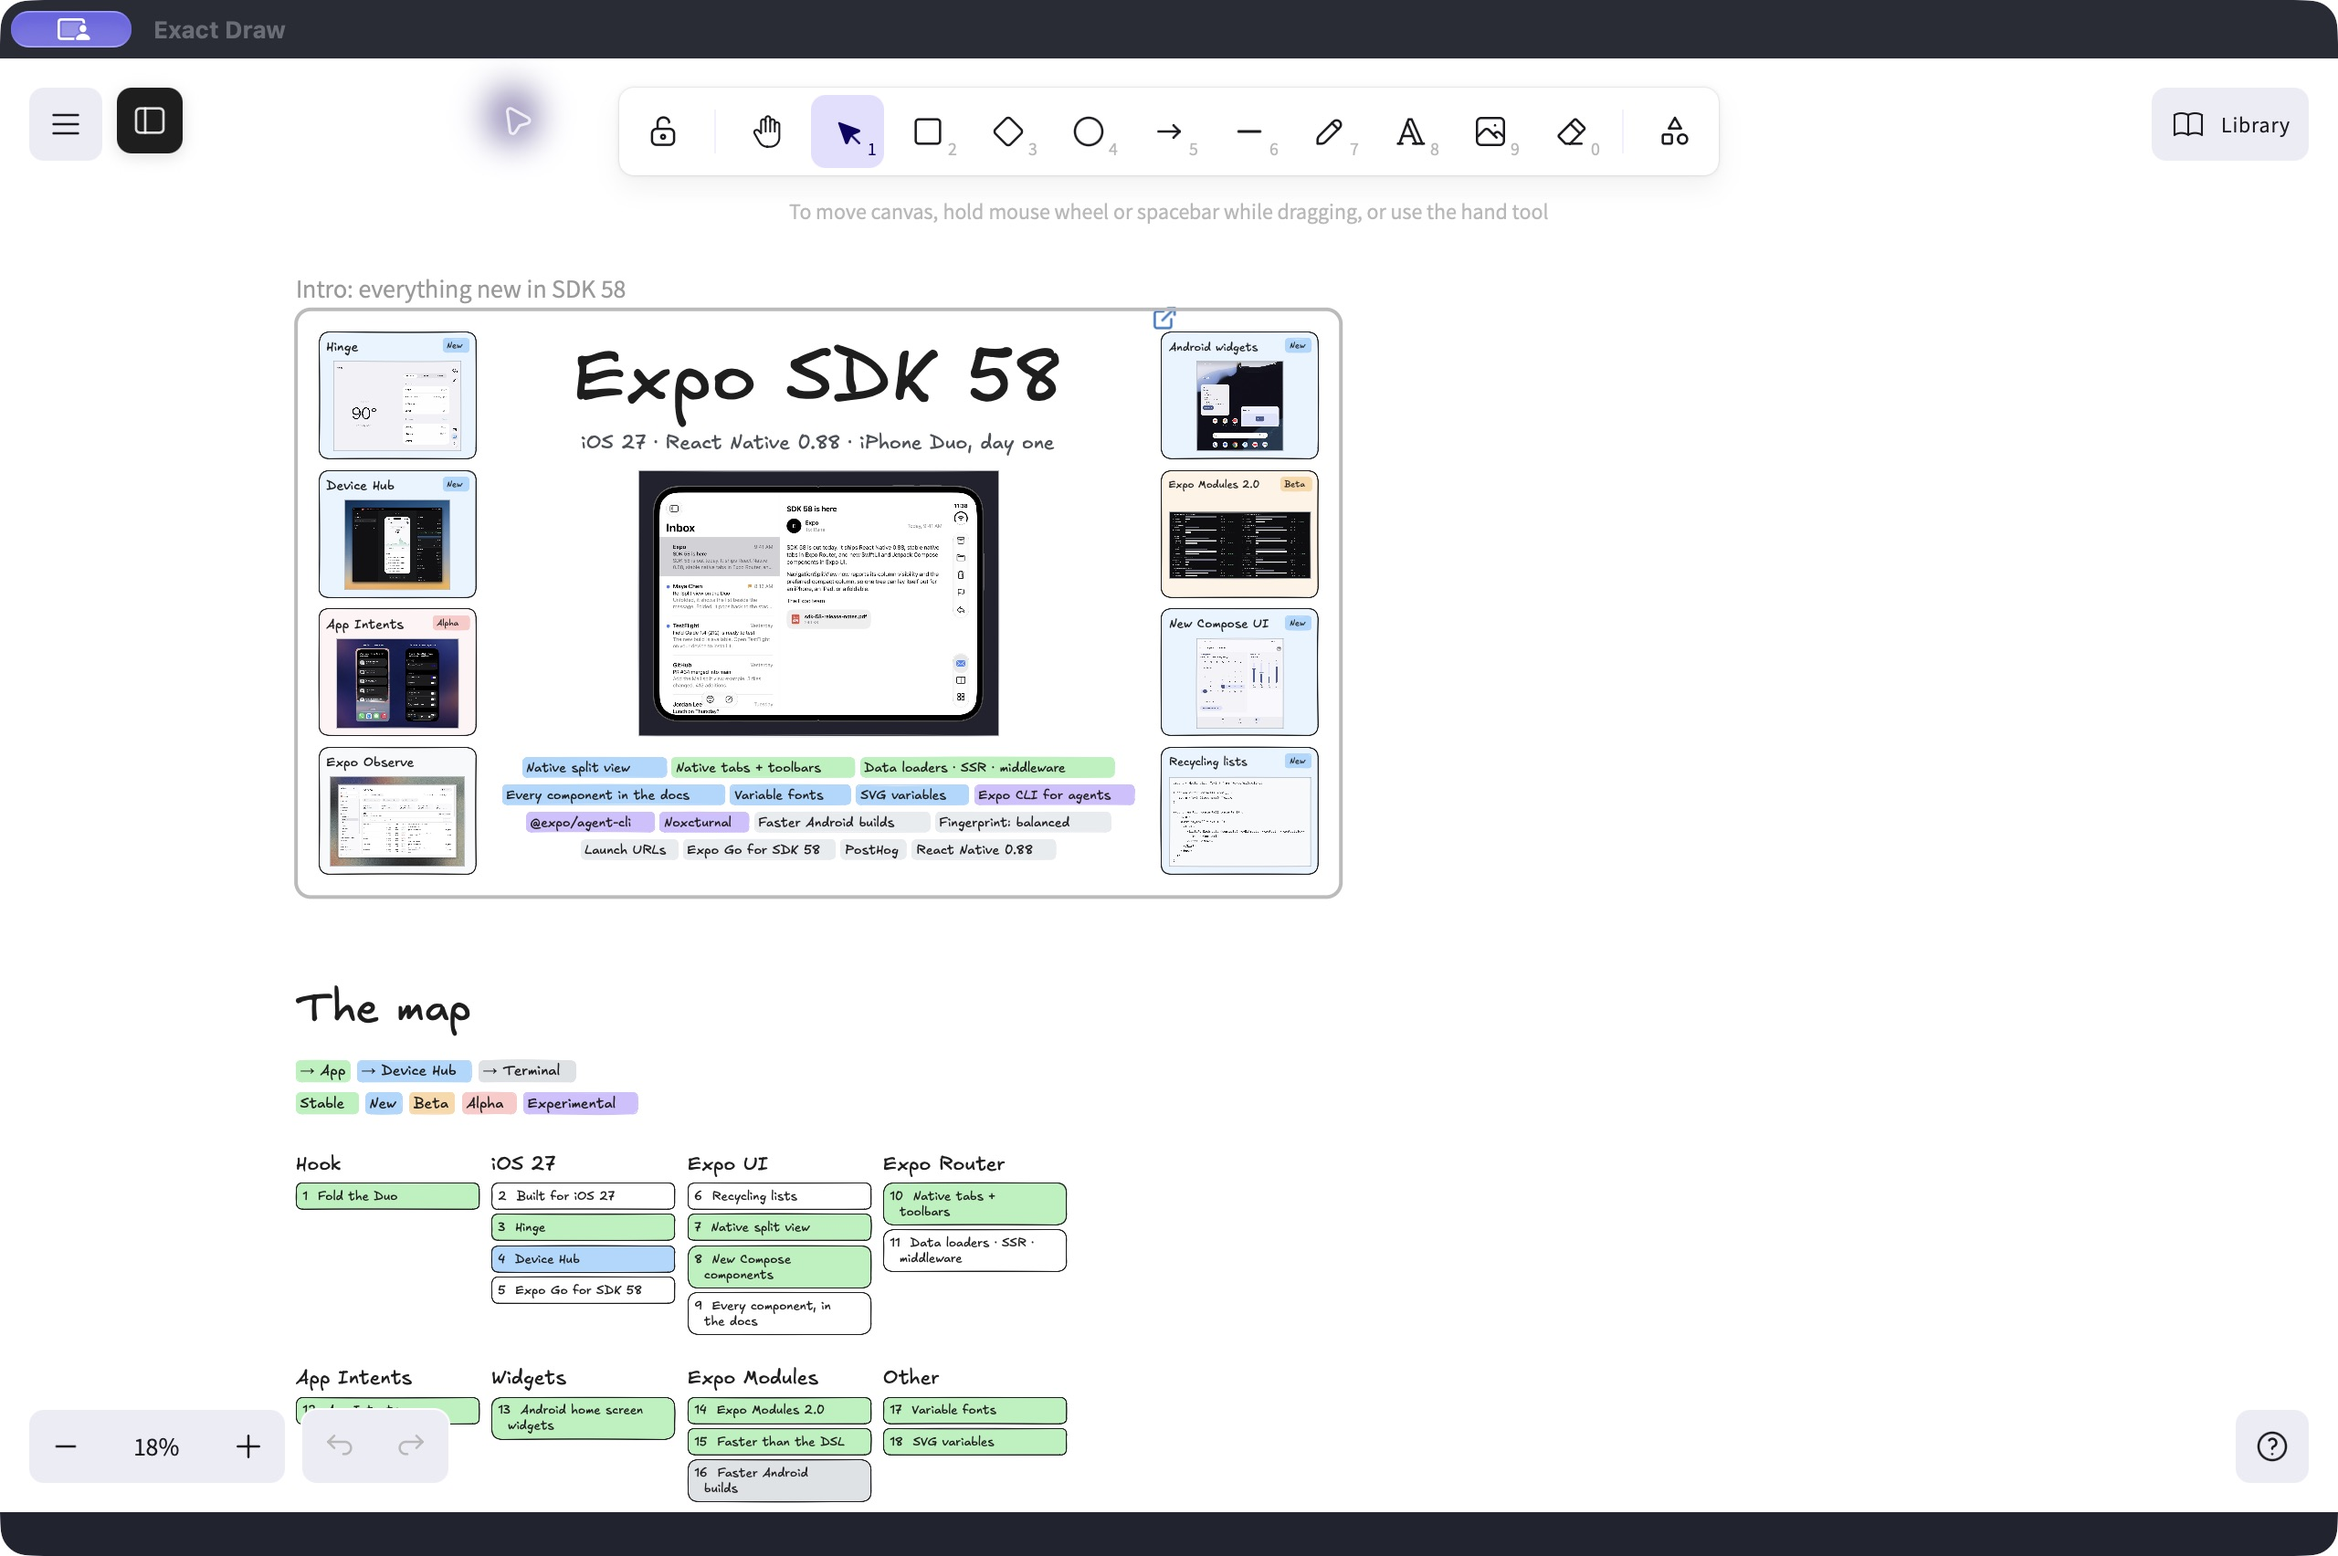
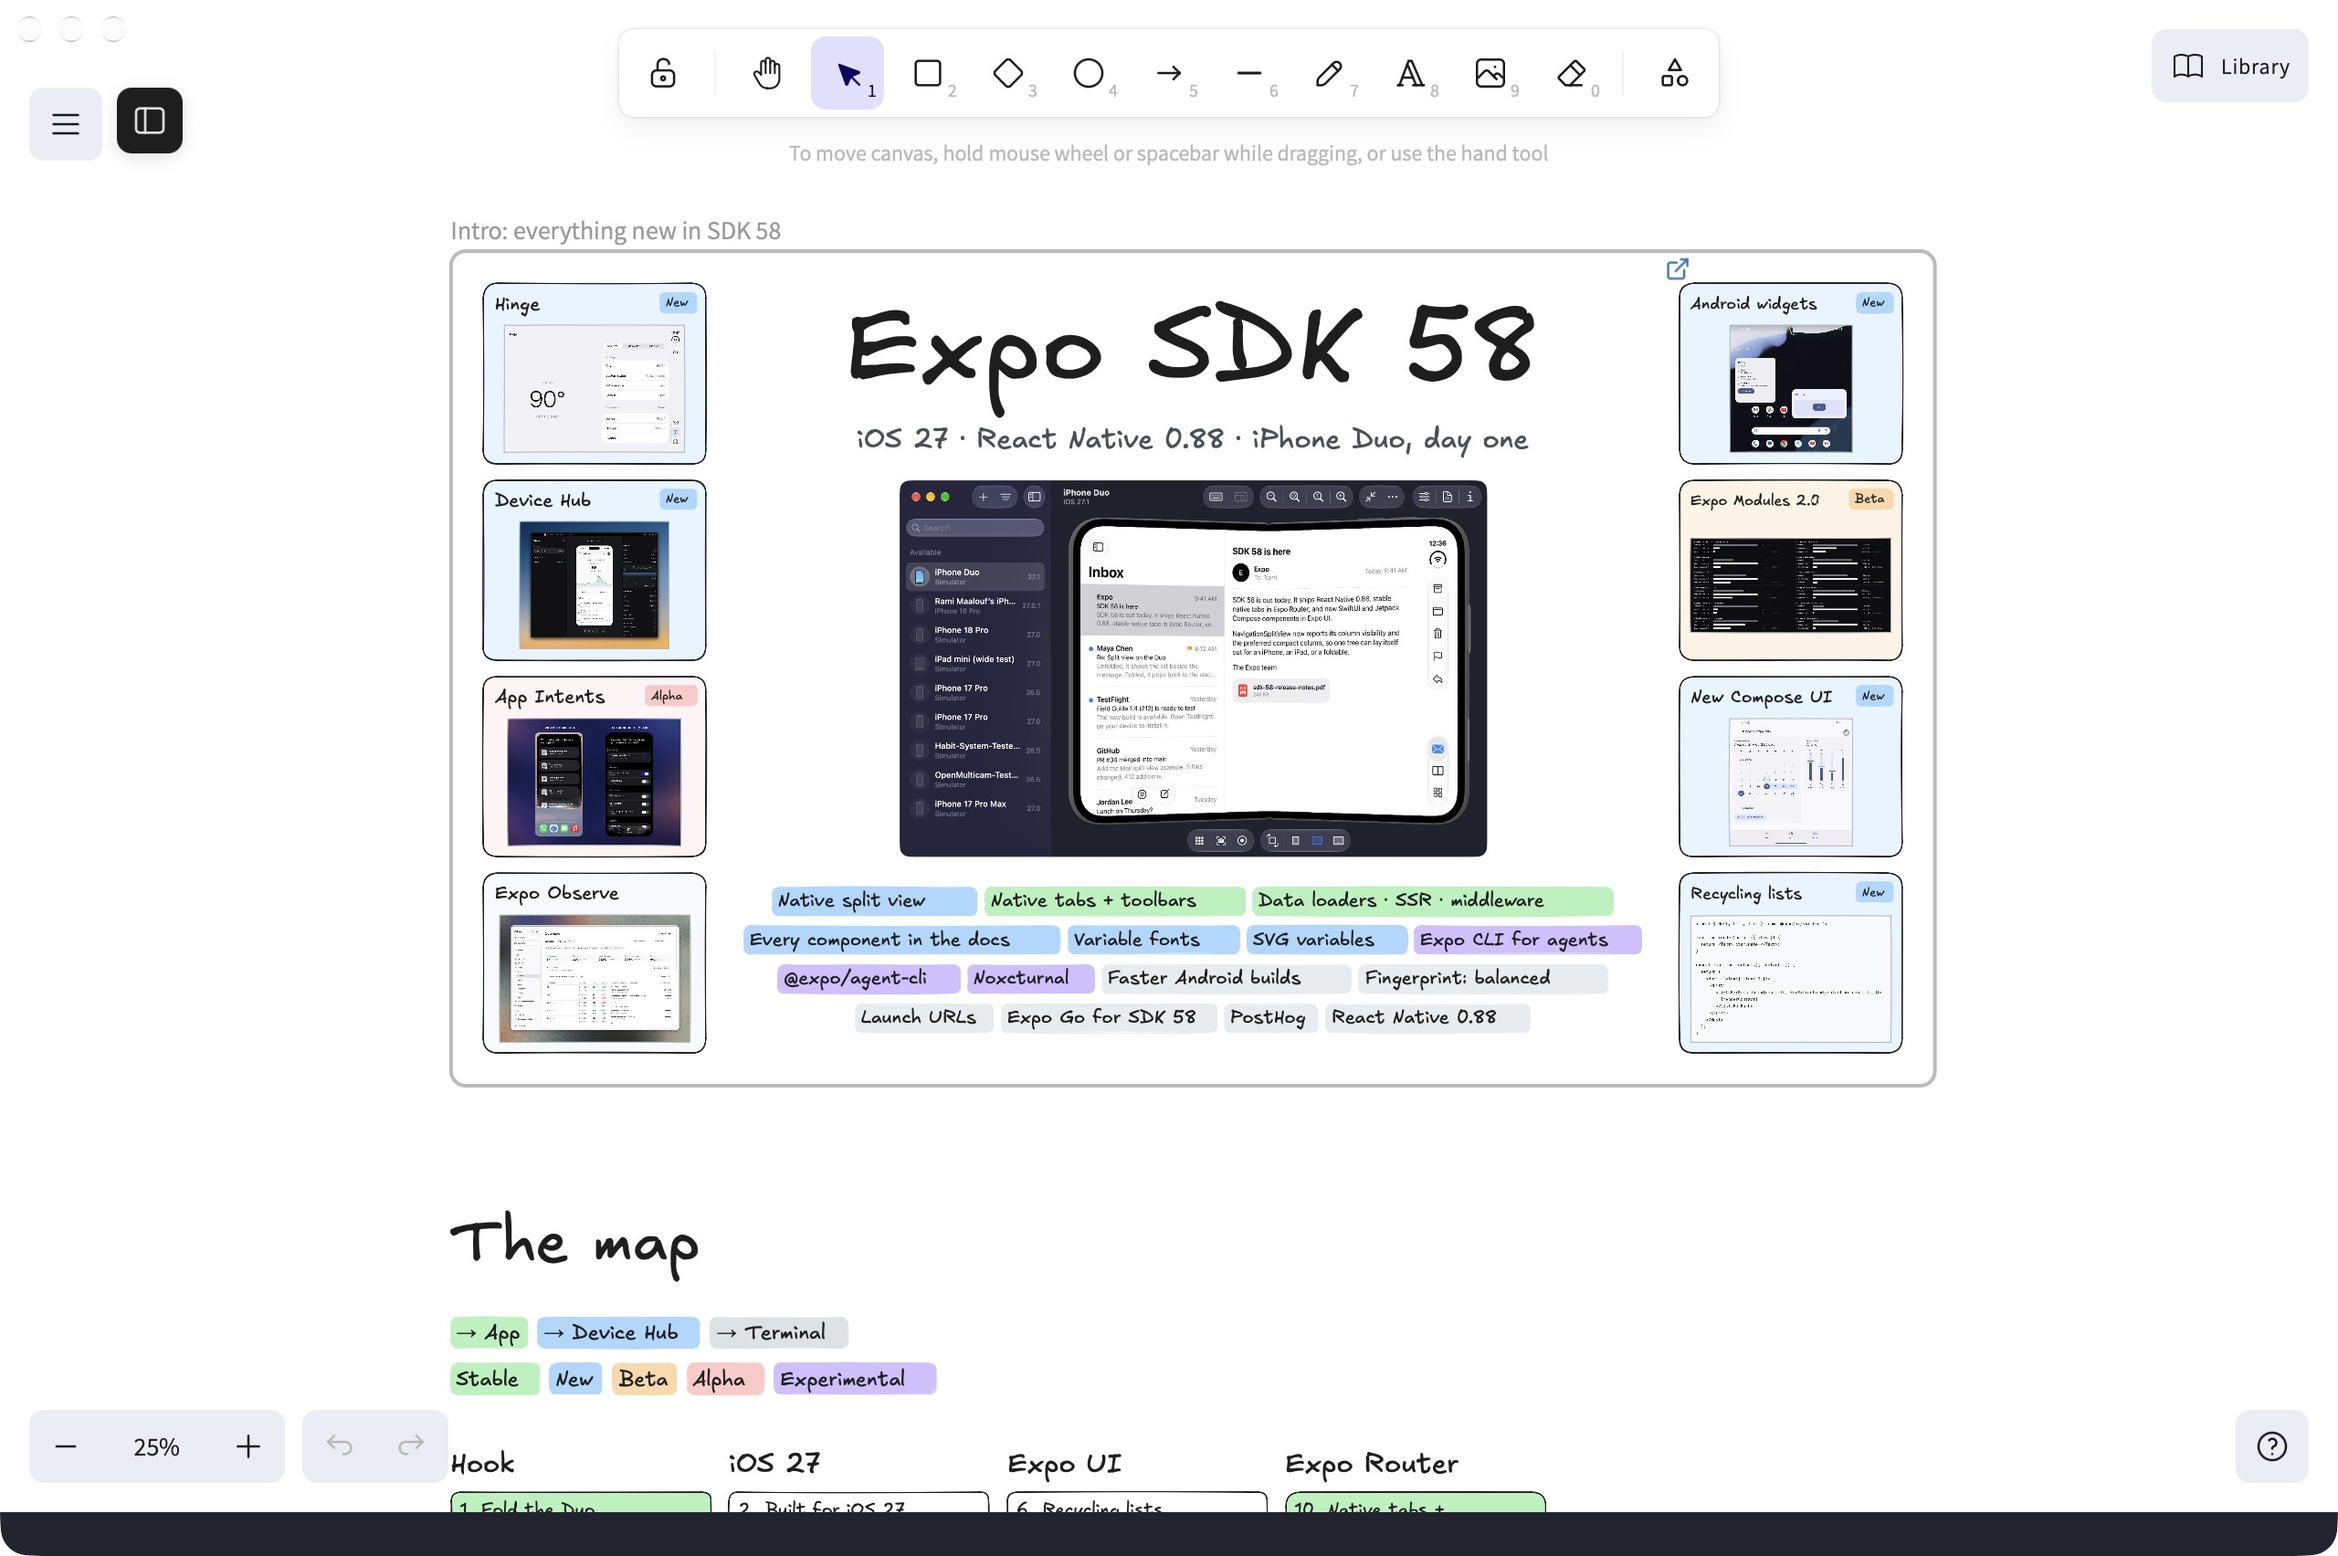
docs: refresh screenshots for the full-height canvas

diff --git a/README.md b/README.md
@@ -25,13 +25,13 @@ The intended editing model is taking turns, rather than simultaneous collaborati
 
 ## Screenshots
 
-Current macOS app, captured October 16, 2026.
+Installed macOS app, captured October 16, 2026, with the canvas extending to the top of the window.
 
-**Sidebar open:** folder explorer, recent drawings, and the active canvas.
+**Sidebar open:** folder explorer, recent drawings, and the full-height canvas.
 
 ![Exact Draw with the sidebar open](docs/screenshots/sidebar-open.jpg)
 
-**Sidebar hidden:** full-width canvas with a floating sidebar toggle.
+**Sidebar hidden:** full-width, full-height canvas with a floating sidebar toggle.
 
 ![Exact Draw with the sidebar hidden](docs/screenshots/sidebar-closed.jpg)
 
